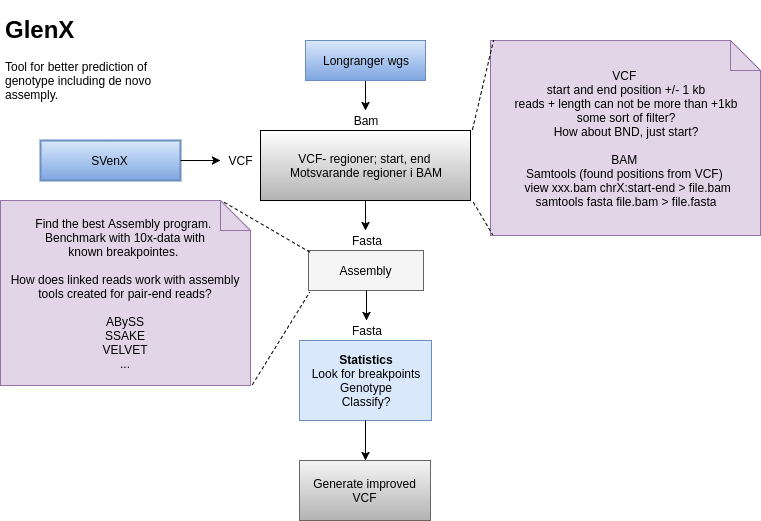
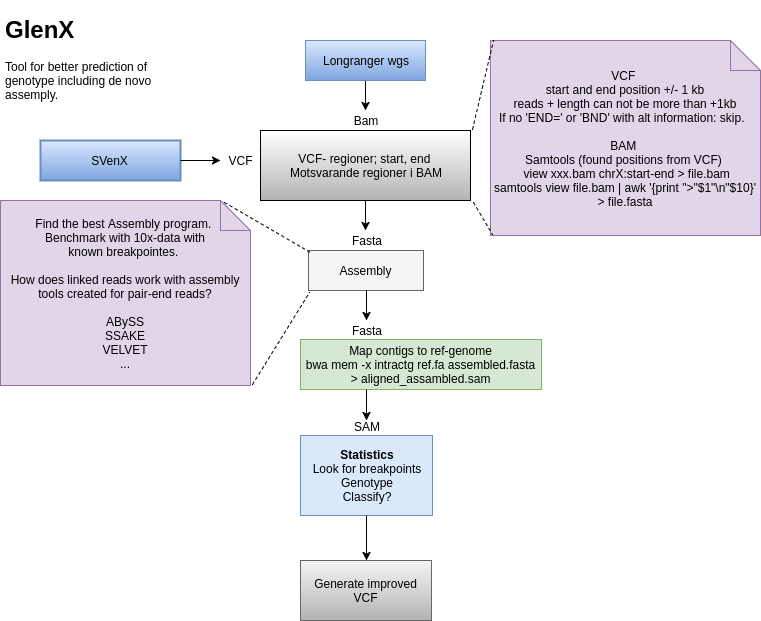
modified:   Glen.png 	modified:   GlenX.py

Changed region(s): [[0.0, 0.0307, 1.0, 0.9827], [0.6045, 0.1843, 0.6347, 0.215]]

diff --git a/GlenX.py b/GlenX.py
@@ -13,45 +13,76 @@ parser = argparse.ArgumentParser(description=usage)
 
 parser.add_argument('--vcf', dest='vcf_in', help = 'Path to vcf-file', required= True)
 parser.add_argument('--bam', dest='bam_in', help = 'Path to bam-file', required= True)
+parser.add_argument('--ID', dest='ID', help= 'sample ID', required = True)
 
 args = parser.parse_args()
 
 vcf = args.vcf_in
 bam = args.bam_in
+ID = args.ID
 
 ################# FUNCTION - New BAM-file (called variant-region) ##################################
 
 # This function will generate a new bam file. For every called region; start-position +/- 1000bp and end-position +/- 1000bp are saved. 
 # All reads in these regions are then extracted from the BAM-file into a new region-specific BAM-file. 
 
-def region_bam (vcf, bam):
+def make_bam (vcf, bam, ID):
+	counter = 0
 	with open (vcf, "r") as vcf_in:
 		for line in vcf_in:
 			if line.startswith("#"):
 				continue 
 			else:
-				line=line.lower().replace("chr","").replace("end=","").split("\t")
-				chrom = line[0]
-				start = line[1]
-				info_list = line[7].split(";")
-				end = info_list[0]
-				try:
-   					val = int(end)
-   					val = int(start)
-				except ValueError:
-   					print(start, end, "That's not an int!")
-   					break
-				start = int(start)
-				end = int(end)
-				start_a = start - 1000
-				start_b = start + 1000
-				end_a = end - 1000
-				end_b = end + 1000
+				line=line.lower().replace("chr","").split("\t")
+				chromA = line[0]
+				posA = line[1]
+				posB = 0
+				tags = line[7].split(";")
+				for tag in tags:
+					if tag.startswith("end="):
+						tag = tag.split('=')
+						chromB = chromA
+						posB = tag[1]	
+					elif tag.startswith("svtype=bnd"):
+						alt_column = line[4].replace("n","").replace("[", "").replace("]","")
+						alt_column = alt_column.split(":")
+						chromB = alt_column[0]
+						posB = alt_column[1]
+				if posB == 0:
+					continue	
 
-				print chrom, start_a, start_b, end_a, end_b 
+				# uniqe ID for every region-specific bam-file	
+				counter += 1	# Unique ID 
+				region_ID = ID + "_region_" + str(counter)
+				
+				posA = int(posA)
+				posB = int(posB)
+				posA_start = posA - 1000
+				posA_end = posA + 1000
+				posB_start = posB - 1000
+				posB_end = posB + 1000				  
 
-				subprocess.call('samtools view -b '+ str(annotation_script), shell=True, stdout=outfile)
-				print 'Annotation programs was added to the SVenX script'
+				# Check for overlapping regions (we do not want doubble reads)
+				if chromA == chromB:
+					if posA < posB:
+						if posA_end >= posB_start:
+							subprocess.call('samtools view -b ' + bam + ' "Chr' + str(chromA) + ':' + str(posA_start) + '-' + str(posB_end) + '" > ' + ID + "_bam/" + region_ID + '.bam', shell = True)
+							print 'a-b', posA, posB, chromA, posA_start, posB_end
+							continue
+					if posA > posB:
+						if posB_end >= posA_start:
+							subprocess.call('samtools view -b ' + bam + ' "Chr' + str(chromA) + ':' + str(posB_start) + '-' + str(posA_end) + '" > ' + ID + "_bam/" + region_ID + '.bam', shell= True)
+							print "b-a", posA, posB, chromA, posB_start, posA_end
+							continue					
+				else:
+					subprocess.call('samtools view -b ' + bam + ' "Chr' + str(chromA) + ':' + str(posA_start) + '-' + str(posA_end) + '"' + ' "Chr' + str(chromB) + ':' + str(posB_start) + '-' + str(posB_end) + '" > ' + ID + "_bam/" + region_ID + '.bam', shell=True) #, stdout=outfile)
+					print posA, posB, chromA, posA_start, posA_end, chromB, posB_start, posB_end
 
-hej = region_bam(vcf, bam)
+subprocess.call ('mkdir ' + ID + '_bam', shell = True)
+#subprocess.call ('samtools index ' + bam, shell = True)
+hej = make_bam (vcf, bam, ID)
+
+
+
+
 	
